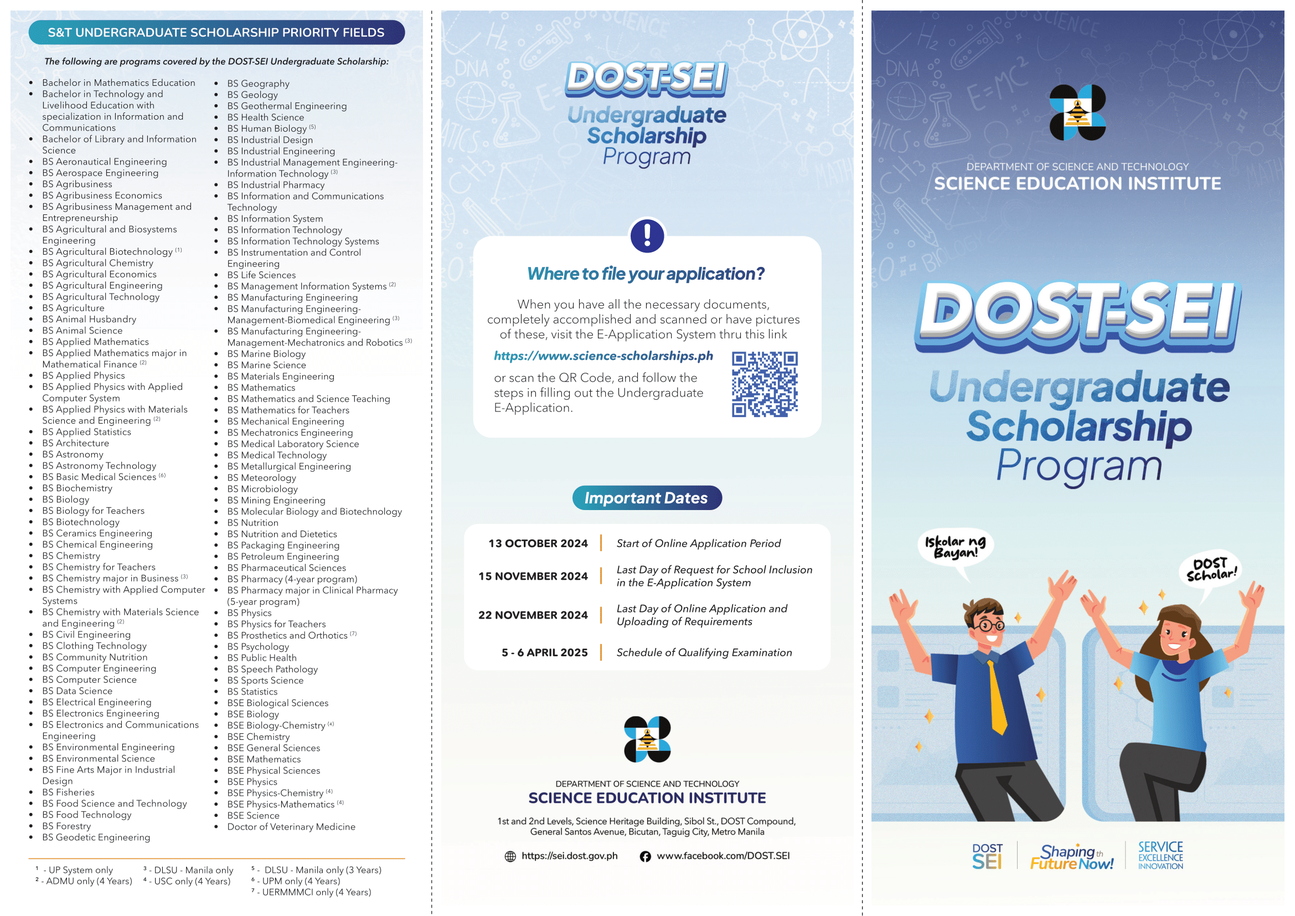
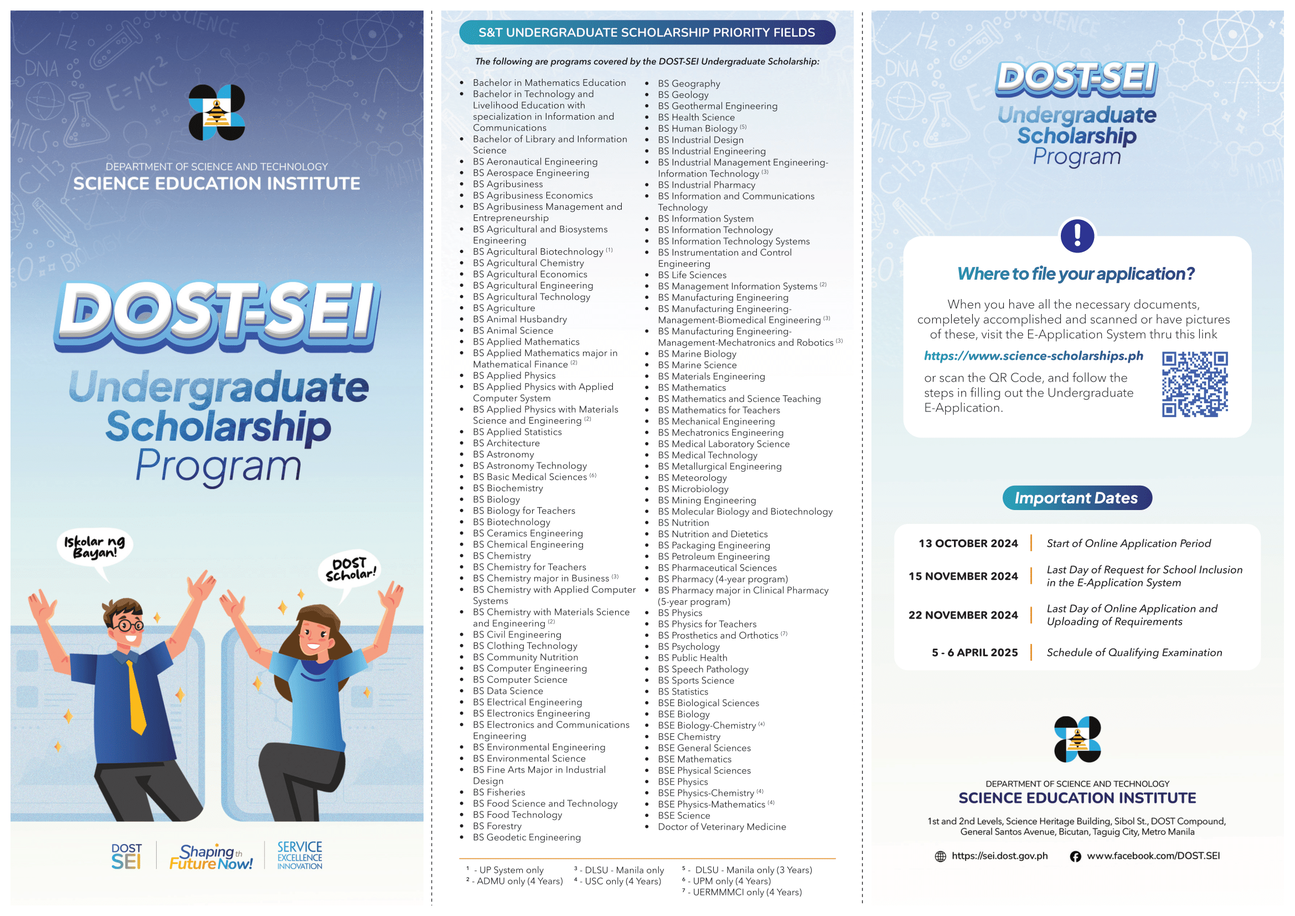
responsive display for mobile and ddesktop

diff --git a/index.html b/index.html
@@ -4,12 +4,29 @@
             DOST E-Pamphlet
         </title>
         <link rel="stylesheet" href="stylesheets/index.css">
+        <meta name="viewport" content="width=device-width, initial-scale=1.0">
     </head>
     
 <body>
-    <div id="landscape">
-        <div class="l-content"><img src="assets/images/landscapes/document-1.png"></div>
-        <div class="l-content"><img src="assets/images/landscapes/document-2.png"></div>
+    <div class="container" id="landscape">
+        <div class="content"><img src="assets/images/landscapes/document-1.png"></div>
+        <hr style="width: 100%; border: dashed 1px; border-color: rgb(127,127,127);">
+        <div class="content"><img src="assets/images/landscapes/document-2.png"></div>
     </div>
+    
+    <div class="container" id="portrait">
+        <div class="content"><img src="assets/images/portraits/f-1.png"></div>
+        <hr style="width: 100%; border: dashed 1px; border-color: rgb(127,127,127);">
+        <div class="content"><img src="assets/images/portraits/f-2.png"></div>
+        <hr style="width: 100%; border: dashed 1px; border-color: rgb(127,127,127);">
+        <div class="content"><img src="assets/images/portraits/f-3.png"></div>
+        <hr style="width: 100%; border: dashed 1px; border-color: rgb(127,127,127);">
+        <div class="content"><img src="assets/images/portraits/b-1.png"></div>
+        <hr style="width: 100%; border: dashed 1px; border-color: rgb(127,127,127);">
+        <div class="content"><img src="assets/images/portraits/b-2.png"></div>
+        <hr style="width: 100%; border: dashed 1px; border-color: rgb(127,127,127);">
+        <div class="content"><img src="assets/images/portraits/b-3.png"></div>
+    </div>
+    
 </body>
 </html>

diff --git a/stylesheets/index.css b/stylesheets/index.css
@@ -1,24 +1,51 @@
+
 body {
     background-color: white;
-    margin:0;
+    margin:0%;
+    padding: 0%;
+    overflow-x: hidden;
+    
 }
 
-#landscape {
+hr {
+    padding: 0%;
+    margin: 2px 0%;
+}
+
+@media (orientation: portrait) and (hover: none) and (pointer: coarse) {
+    #portrait {
+        display: block;
+    }
+    
+    #landscape {
+        display: none;
+    }
+}
+
+@media only screen and (orientation: landscape) {
+    #portrait {
+        display: none;
+    }
+    
+    #landscape {
+        display: block;
+    }
+}
+
+.container {
     display: flex;
     flex-direction: column;
-    justify-content: center;
+    width: 100%;
+    height: fit-content;
 }
 
-.l-content {
+.content {
+    width: 100%;
     display: flex;
-    justify-content: center;
-    align-items: center;
-    background-color: white;
+}
+
+.content img {
     width: 100%;
 }
 
-.l-content img {
-    width: 100%;
-    height: 100%;
-    object-fit: contain;
-}
+
